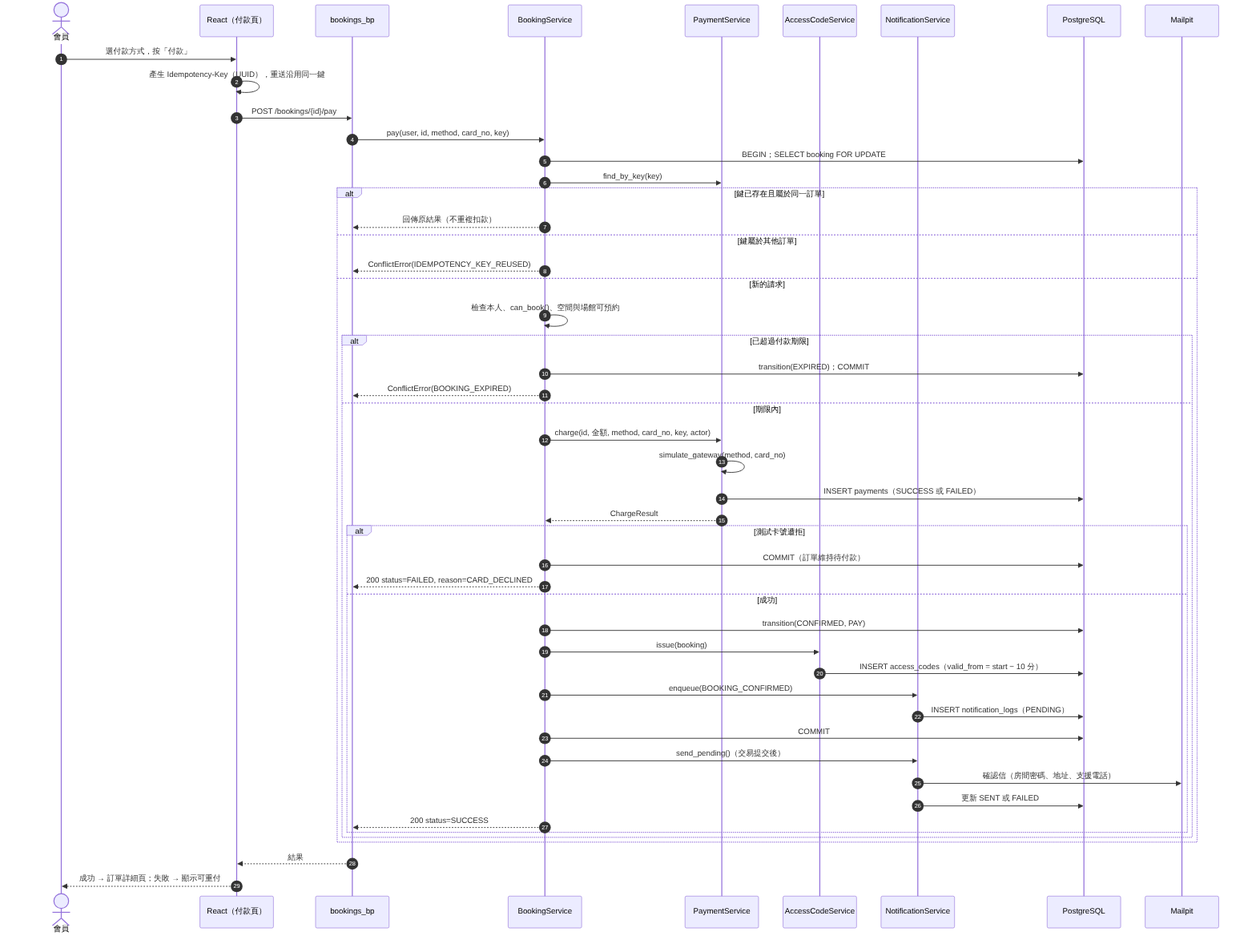
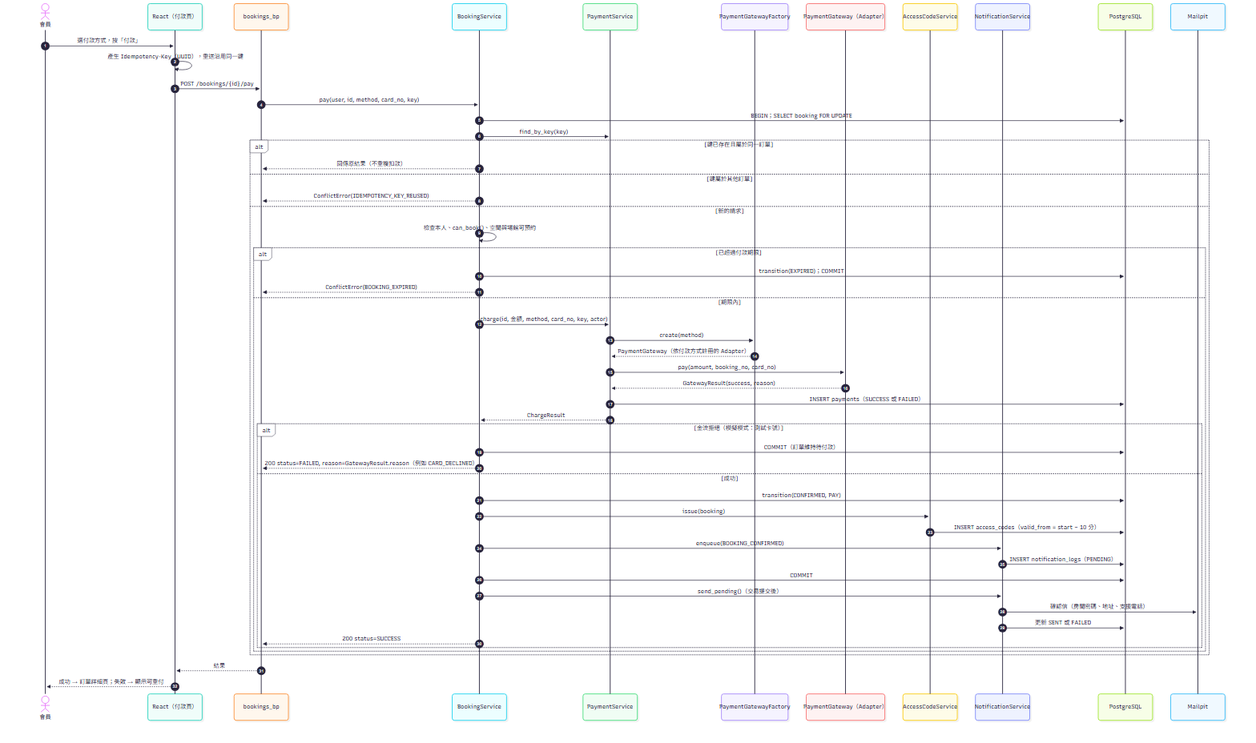
docs: 同步第四層重構（ARCHITECTURE、設計圖與 PNG、AI 使用紀錄）
- ARCHITECTURE.md：新增 Repository、Adapter 元件、第 3.1 節變更影響表與依賴規則；
  註明新增付款方式還需修改資料庫 CHECK 約束 ck_payments_method（規則 13，須全組確認）
- 設計圖：D3、D6、D7、D9、D12、L2、L3 的 Mermaid 與 PNG
- ai-usage-log.md：新增本次重構紀錄（記錄者待填）

diff --git a/BMAD/docs/設計圖_邏輯設計與細部設計.md b/BMAD/docs/設計圖_邏輯設計與細部設計.md
@@ -72,7 +72,7 @@ flowchart TB
     end
     subgraph S[服務層 Service：流程協調・交易邊界・權限，回傳 DTO]
         direction LR
-        S1[帳號・密碼・Google<br/>目錄搜尋<br/>可預約時段] --- S2[訂單（唯一入口）<br/>付款・房間密碼] --- S3[評論・收藏<br/>通知] --- S4[後台管理] --- S5[Policy 純函式<br/>PricingPolicy<br/>RefundPolicy]
+        S1[帳號・密碼・Google<br/>目錄搜尋<br/>可預約時段] --- S2[訂單（唯一入口）<br/>付款・房間密碼] --- S3[評論・收藏<br/>通知] --- S4[後台管理] --- S5[Policy・Repository・Adapter<br/>RefundPolicy 策略・booking_rules<br/>BookingRepository<br/>金流・身分 Adapter＋Factory]
     end
     subgraph MD[模型層 Model：SQLAlchemy ORM]
         direction LR
@@ -117,8 +117,8 @@ flowchart TB
     CAT[目錄搜尋模組<br/>搜尋・空間詳細・定位]
     BKG[訂單模組<br/>訂單流程唯一入口]
     AVL[可預約時段模組]
-    POL[計價與退款規則<br/>純函式]
-    PAY[付款模組<br/>只做金流與 payments]
+    POL[計價與退款規則<br/>純函式與 RefundPolicy 策略]
+    PAY[付款模組<br/>金流 Adapter 與 payments]
     ACC[房間密碼模組]
     NTF[通知模組<br/>信件・通知紀錄]
     SEC[安全工具<br/>雜湊・權杖]
@@ -158,7 +158,7 @@ flowchart TB
 | 可預約時段 | AvailabilityService | FR-14 | — |
 | 訂單 | BookingService | FR-20～22、30～33、45 | 可預約時段、計價與退款規則、付款、房間密碼、通知 |
 | 計價與退款規則 | PricingPolicy、RefundPolicy（純函式） | BR-07、12～14 | — |
-| 付款 | PaymentService | FR-22（金流部分） | — |
+| 付款 | PaymentService、PaymentGatewayFactory、PaymentGateway（Adapter） | FR-22（金流部分） | — |
 | 房間密碼 | AccessCodeService | FR-23、31 | — |
 | 評論 | ReviewService | FR-12（評論列表）、34、47 | 訂單 |
 | 收藏 | FavoriteService | FR-15 | 目錄搜尋 |
@@ -658,8 +658,29 @@ classDiagram
         +refund_partially(admin, booking_id, amount, key) PaymentDTO
         +expire_overdue() int
         +complete_finished() int
-        -_cancel(booking, ratio, actor, reason) None
+        -_cancel(booking, policy, actor, reason) None
         -_reschedule(booking, new_slot, actor, reason) int
+        -_amount_for(hourly_price, hours) int
+        -_reschedule_diff(booking, new_slot) int
+    }
+    class BookingRules {
+        <<pure>>
+        +can_cancel(status, expires_at, end_at, now) bool
+        +can_reschedule(status, start_at, count, now) bool
+        +reschedule_denial(status, start_at, count, now) RescheduleDenial
+        +can_review(status, end_at, now, has_review) bool
+        +review_window_open(end_at, now) bool
+    }
+    class BookingRepository {
+        <<repository>>
+        +get(booking_id) Booking
+        +get_locked(booking_id) Booking
+        +count_pending(user_id, now) int
+        +list_by_tab(user_id, tab, now, page, size) tuple
+        +list_active_in_spaces(space_ids, now) list
+        +has_slot_conflict(booking, start, end, now) bool
+        +lock_overdue_pending(now) list
+        +lock_finished(now) list
     }
     class PricingPolicy {
         <<pure>>
@@ -667,11 +688,38 @@ classDiagram
         +reschedule_diff(snapshot, old_hours, new_hours) int
     }
     class RefundPolicy {
-        <<pure>>
-        +member_ratio(start_at, now) Decimal
-        +admin_ratio() Decimal
-        +refund_amount(net_paid, ratio) int
+        <<strategy>>
+        +ratio(start_at, now) Decimal
     }
+    class MemberRefundPolicy
+    class AdminRefundPolicy
+    class NoRefundPolicy
+    RefundPolicy <|-- MemberRefundPolicy
+    RefundPolicy <|-- AdminRefundPolicy
+    RefundPolicy <|-- NoRefundPolicy
+    class PaymentGateway {
+        <<adapter interface>>
+        +pay(amount, ref, card_no) GatewayResult
+    }
+    class SimulatedCardGateway
+    class SimulatedLinePayGateway
+    class PaymentGatewayFactory {
+        <<factory>>
+        +register(method, maker) None
+        +create(method) PaymentGateway
+    }
+    PaymentGateway <|-- SimulatedCardGateway
+    PaymentGateway <|-- SimulatedLinePayGateway
+    PaymentGatewayFactory ..> PaymentGateway
+    class IdentityProvider {
+        <<adapter interface>>
+        +begin(callback_url) Response
+        +complete() GoogleIdentity
+    }
+    class GoogleAuthlibProvider
+    class MockGoogleProvider
+    IdentityProvider <|-- GoogleAuthlibProvider
+    IdentityProvider <|-- MockGoogleProvider
     class AvailabilityService {
         +slots_for(space, local_date) list~Slot~
         +validate_slot(space, start_at, end_at) None
@@ -680,7 +728,6 @@ classDiagram
         +charge(booking_id, amount, method, card_no, key, actor_id) ChargeResult
         +refund(booking_id, amount, key, actor_id) Payment
         +find_by_key(key) Payment
-        -simulate_gateway(method, card_no) bool
     }
     class AccessCodeService {
         +issue(booking) None
@@ -715,9 +762,12 @@ classDiagram
     PasswordService --> NotificationService
     CatalogService --> AvailabilityService
     BookingService --> AvailabilityService
+    BookingService --> BookingRepository
     BookingService ..> PricingPolicy
-    BookingService ..> RefundPolicy
+    BookingService ..> BookingRules
+    BookingService --> RefundPolicy
     BookingService --> PaymentService
+    PaymentService --> PaymentGatewayFactory
     BookingService --> AccessCodeService
     BookingService --> NotificationService
 ```
@@ -725,14 +775,16 @@ classDiagram
 **設計重點**
 
 - **BookingService 是訂單流程的唯一入口**（審查 C1、C2）：建立、付款、取消、改期、部分退款、逾時與完成都由它協調。只有它能寫入 bookings、booking_status_logs 與退款，狀態一律透過 `Booking.transition()` 改變、紀錄一律透過 `Booking.record()` 寫入（C4）。
-- **PaymentService 不依賴任何 Service**：只負責模擬金流與寫入 payments。`charge()`、`refund()` 不開交易，由 BookingService 的交易包住，確保「訂單變更＋金流紀錄」一起成功或一起失敗。
+- **PaymentService 不依賴任何 Service**：只負責呼叫金流 Adapter 與寫入 payments。金流經 `PaymentGatewayFactory`（註冊表）依付款方式取得 `PaymentGateway` Adapter；各家金流的參數、單位與失敗原因由 Adapter 轉成 `GatewayResult`，PaymentService 與 BookingService 不知道有哪幾種金流。`charge()`、`refund()` 不開交易，由 BookingService 的交易包住，確保「訂單變更＋金流紀錄」一起成功或一起失敗。
 - **不用布林旗標**（C3）：會員與管理員規則不同的操作拆成 `*_by_member`、`*_by_admin` 兩個公開方法，規則差異寫在各自的方法裡，共用私有 `_cancel()`、`_reschedule()`。
+- **訂單資料存取集中**：`BookingService` 不直接使用 `db.session` 或 `select`，查詢、鎖定（FOR UPDATE、SKIP LOCKED）、分頁與序號由 `BookingRepository` 負責；`commit`／`rollback` 只是轉交同一個 session，交易邊界仍由 `BookingService` 決定，確保「訂單變更＋金流紀錄」在同一個交易。
+- **訂單規則集中**：待付款上限、改期 24 小時與 1 次、評論 30 天等門檻與 `can_cancel`、`can_reschedule`、`can_review` 判斷集中在 `BookingRules`，`to_dto` 的畫面旗標與執行時的檢查共用同一份判斷；金額只經 `BookingService._amount_for()` 計算，日後調整計價只需改一處。
 - **計算規則抽成純函式**（C5）：`PricingPolicy`、`RefundPolicy` 不碰資料庫；`quote`、`cancel_quote`、`reschedule_quote` 與正式流程呼叫同一個函式，試算與實際結果不會不同。
 - **帳號模組依職責拆成三個**（C7）：`AuthService`（註冊、驗證信、登入）、`PasswordService`（雜湊、變更、重設、失敗鎖定、清理權杖）、`GoogleAuthService`（回呼、綁定）。
 - **評論的查詢與寫入都在 ReviewService**（C6）；`ReviewService` 透過 `BookingService.get_for_owner()` 確認訂單屬於本人且已完成，`FavoriteService.list()` 透過 `CatalogService` 組出空間摘要，兩者都不直接查其他模組的資料表。
 - **排程只呼叫 Service**（C8）：每個工作只呼叫一個 Service 方法，例如久未登入凍結呼叫 `AdminUserService.freeze_inactive()`，`jobs` 本身不寫商業邏輯。
 - **回傳 DTO**（C9）：Service 回傳 `schemas/` 中的 Pydantic 模型（圖中 `…DTO`），ORM 物件不離開 Service 層。
-- **注入 Clock**（C13）：所有 Service 以建構子注入 `Clock`，不直接讀系統時間；測試時替換成固定時間。Service 之間同樣以建構子注入（`create_app()` 中組裝），測試時可替換 `PaymentService.simulate_gateway` 與郵件寄送。圖中省略各 Service 對 Clock 的相依線。
+- **注入 Clock**（C13）：所有 Service 以建構子注入 `Clock`，不直接讀系統時間；測試時替換成固定時間。Service 之間同樣以建構子注入（`create_app()` 中組裝），測試時可替換 `PaymentGatewayFactory` 註冊的金流 Adapter、注入 `RefundPolicy` 與郵件寄送。圖中省略各 Service 對 Clock 的相依線。
 - `NotificationService.enqueue()` 在交易內寫入 PENDING 紀錄；`send_pending()` 在交易提交後才寄信。
 - 實線箭頭為 Service 之間的相依；虛線為排程的呼叫與對純函式的使用。
 
@@ -870,6 +922,8 @@ sequenceDiagram
     participant BP as bookings_bp
     participant BS as BookingService
     participant PS as PaymentService
+    participant GF as PaymentGatewayFactory
+    participant GW as PaymentGateway（Adapter）
     participant AC as AccessCodeService
     participant NS as NotificationService
     participant DB as PostgreSQL
@@ -892,12 +946,15 @@ sequenceDiagram
             BS-->>BP: ConflictError(BOOKING_EXPIRED)
         else 期限內
             BS->>PS: charge(id, 金額, method, card_no, key, actor)
-            PS->>PS: simulate_gateway(method, card_no)
+            PS->>GF: create(method)
+            GF-->>PS: PaymentGateway（依付款方式註冊的 Adapter）
+            PS->>GW: pay(amount, booking_no, card_no)
+            GW-->>PS: GatewayResult(success, reason)
             PS->>DB: INSERT payments（SUCCESS 或 FAILED）
             PS-->>BS: ChargeResult
-            alt 測試卡號遭拒
+            alt 金流拒絕（模擬模式：測試卡號）
                 BS->>DB: COMMIT（訂單維持待付款）
-                BS-->>BP: 200 status=FAILED, reason=CARD_DECLINED
+                BS-->>BP: 200 status=FAILED, reason=GatewayResult.reason（例如 CARD_DECLINED）
             else 成功
                 BS->>DB: transition(CONFIRMED, PAY)
                 BS->>AC: issue(booking)
@@ -938,24 +995,27 @@ sequenceDiagram
     U->>FE: 在訂單頁按「取消」
     FE->>BP: GET cancel-quote
     BP->>BS: cancel_quote(user, id)
-    BS->>RP: member_ratio(start_at, now)、refund_amount(net_paid, ratio)
+    BS->>BS: _member_policy(b)：待付款 → NoRefundPolicy，其餘 → MemberRefundPolicy
+    BS->>RP: ratio(start_at, now)
+    BS->>BS: refund_amount(net_paid, ratio)
     BS-->>FE: 預計退款金額與比例
     FE-->>U: 顯示「將退款 NT$300（50%）」
     U->>FE: 確認取消（管理員須填原因）
     FE->>BP: POST cancel
     alt 會員
         BP->>BS: cancel_by_member(user, id)
-        BS->>RP: member_ratio(start_at, now)（BR-12）
+        BS->>BS: _member_policy(b) 選出策略（BR-12）
     else 管理員
         BP->>BS: cancel_by_admin(admin, id, reason)
-        BS->>RP: admin_ratio() = 100%（BR-13）
+        BS->>BS: 使用注入的 AdminRefundPolicy（BR-13）
     end
-    BS->>BS: _cancel(booking, ratio, actor, reason)
+    BS->>BS: _cancel(booking, policy, actor, reason)
     BS->>DB: BEGIN；SELECT booking FOR UPDATE
     alt 已是 CANCELLED
         BS-->>BP: 回傳原結果（冪等）
     else 待付款或已確認
-        BS->>RP: refund_amount(net_paid, ratio)
+        BS->>RP: ratio(start_at, now)
+        BS->>BS: refund_amount(net_paid, ratio)
         opt 退款金額 > 0
             BS->>PS: refund(id, amount, key=refund-cancel-{id})
             PS->>DB: INSERT payments（REFUND，沿用原付款方式）
@@ -971,7 +1031,7 @@ sequenceDiagram
     FE-->>U: 顯示已取消與退款金額
 ```
 
-v2 的變化：會員與管理員改由兩個公開方法進入（審查 C3），只差在退款比例與原因是否必填；退款比例與金額由 `RefundPolicy` 計算（C5），試算與正式取消呼叫同一個函式。已完成或已失效的訂單由 `transition()` 拋出 `INVALID_STATE`。
+v2 的變化：會員與管理員改由兩個公開方法進入（審查 C3），只差在退款比例與原因是否必填；退款比例由 `RefundPolicy` 策略決定（`MemberRefundPolicy`、`AdminRefundPolicy`、`NoRefundPolicy`，以建構子注入 BookingService），退款金額由純函式 `refund_amount()` 計算；試算與正式取消呼叫同一個策略與函式。新增退款規則只需新增一個 `RefundPolicy` 子類別。已完成或已失效的訂單由 `transition()` 拋出 `INVALID_STATE`。
 
 ## D8 循序圖：改期（FR-33、FR-45）
 
@@ -1037,6 +1097,7 @@ sequenceDiagram
     actor U as 使用者
     participant FE as React
     participant BP as auth_bp
+    participant IP as IdentityProvider（Adapter）
     participant G as Google（開發期為 mock）
     participant GA as GoogleAuthService
     participant AS as AuthService
@@ -1045,11 +1106,14 @@ sequenceDiagram
 
     U->>FE: 按「使用 Google 登入」
     FE->>BP: GET /auth/google/start
-    BP-->>U: 302 導向 Google
+    BP->>IP: begin(callback_url)
+    IP-->>U: 302 導向 Google（mock 模式導向模擬頁面）
     U->>G: 登入並同意
     G-->>BP: GET /auth/google/callback（code）
-    BP->>G: 交換 id_token 並驗證簽章
-    BP->>GA: handle_callback(sub, email, email_verified)
+    BP->>IP: complete()
+    IP->>G: 交換 id_token 並驗證簽章（Authlib；mock 則讀網址參數）
+    IP-->>BP: GoogleIdentity(sub, email, name, email_verified)
+    BP->>GA: handle_callback(identity)
     GA->>DB: 以 (GOOGLE, sub) 查 external_accounts
     alt ① 已綁定
         GA->>DB: 更新 last_login_at
@@ -1084,7 +1148,7 @@ sequenceDiagram
     end
 ```
 
-v2 的變化（審查 C7）：Google 登入獨立為 GoogleAuthService；建立使用者交給 AuthService，密碼驗證與失敗鎖定交給 PasswordService，三者各自只負責一件事。
+v2 的變化（審查 C7）：Google 登入獨立為 GoogleAuthService；建立使用者交給 AuthService，密碼驗證與失敗鎖定交給 PasswordService，三者各自只負責一件事。v3 的變化：Controller 不再直接使用 Authlib 或判斷 `GOOGLE_MOCK`，改透過 `IdentityProvider` Adapter 取得標準化的 `GoogleIdentity`；真實（`GoogleAuthlibProvider`）與模擬（`MockGoogleProvider`）由 `build_identity_provider()` 依設定選擇，測試時可注入假的提供者。
 
 ## D10 狀態圖
 
@@ -1172,11 +1236,11 @@ flowchart TD
 ```mermaid
 flowchart TD
     S([輸入：訂單、呼叫的方法、Clock.now]) --> A{訂單狀態}
-    A -- PENDING_PAYMENT --> Z0[退款 0<br/>直接取消]
+    A -- PENDING_PAYMENT --> Z0[NoRefundPolicy：比例 0<br/>直接取消]
     A -- CANCELLED／EXPIRED／COMPLETED --> E[transition 拋出 INVALID_STATE<br/>已取消則回傳原結果]
     A -- CONFIRMED --> B{由哪個方法呼叫？}
-    B -- cancel_by_admin --> F[admin_ratio：100%（BR-13）]
-    B -- cancel_by_member／cancel_quote --> C[member_ratio：<br/>Δ = start_at − now]
+    B -- cancel_by_admin --> F[AdminRefundPolicy：100%（BR-13）]
+    B -- cancel_by_member／cancel_quote --> C[MemberRefundPolicy.TIERS：<br/>Δ = start_at − now]
     C --> D{Δ ≥ 24 小時？}
     D -- 是 --> F2[比例 100%]
     D -- 否 --> G{Δ ≥ 3 小時？}
@@ -1194,7 +1258,7 @@ flowchart TD
     Z0 --> N
 ```
 
-`member_ratio()`、`admin_ratio()`、`refund_amount()` 是 `RefundPolicy` 的純函式，不碰資料庫，可以直接對 24 小時、3 小時的邊界值寫單元測試（審查 C5）；狀態判斷由 `Booking.transition()` 負責，建立退款紀錄由 BookingService 負責。`net_paid` 已扣除先前的部分退款與改期退款，所以多次退款的總額不會超過實收（BR-17）。
+`RefundPolicy` 的三個實作與 `refund_amount()` 都不碰資料庫，可以直接對 24 小時、3 小時的邊界值寫單元測試（審查 C5）；狀態判斷由 `Booking.transition()` 負責，建立退款紀錄由 BookingService 負責。`net_paid` 已扣除先前的部分退款與改期退款，所以多次退款的總額不會超過實收（BR-17）。
 
 ## D13 前端元件圖：空間詳細與預約
 

diff --git a/BMAD/docs/ARCHITECTURE.md b/BMAD/docs/ARCHITECTURE.md
@@ -15,7 +15,7 @@
 | 輸入驗證 | Pydantic 2 | 以型別定義請求與回應格式，錯誤訊息一致 | 與 Flask 需一個小型整合函式 |
 | 登入狀態 | Flask-Login＋Flask 簽章 cookie session | 伺服器簽章、HttpOnly cookie，比 localStorage 的 JWT 更能防 XSS 竊取 | 前後端須同網域（nginx 代理解決） |
 | CSRF | Flask-WTF `CSRFProtect` | 標準防護；前端從 `/api/v1/auth/csrf` 取得 token 放在 `X-CSRFToken` 標頭 | 每個修改請求都要帶標頭 |
-| Google OAuth | Authlib | 成熟的 OAuth／OIDC 用戶端，驗證 id_token | 需 Google Cloud 憑證（開發期以 mock 代替） |
+| Google OAuth | Authlib | 成熟的 OAuth／OIDC 用戶端，驗證 id_token | 需 Google Cloud 憑證（開發期以 mock 代替）；Authlib 只出現在 `adapters/identity/`，由 `IdentityProvider` Adapter 隔離 |
 | 限流 | Flask-Limiter | 登入、註冊、忘記密碼防暴力嘗試 | |
 | 排程 | APScheduler（獨立 `scheduler` 容器） | 輕量；獨立容器避免多個 API worker 重複執行 | 單一排程程序，課程規模足夠 |
 | 寄信 | Python `smtplib`；開發用 Mailpit | 不綁特定服務；Mailpit 提供網頁介面檢視測試信 | |
@@ -77,18 +77,36 @@ flowchart LR
 | Controller | `backend/app/blueprints/`（Flask Blueprint） | 解析請求、Pydantic 驗證、呼叫 service、轉換回應；不寫商業規則 |
 | View | `frontend/`（React） | 畫面與互動、前端輸入驗證；不做權限與金額判斷 |
 | Service | `backend/app/services/` | 協調流程、交易邊界、權限與資料所有權檢查；回傳 DTO（`schemas/` 的 Pydantic 模型），ORM 物件不離開 Service 層 |
-| Policy | `backend/app/policies/` | 不碰資料庫的純函式業務規則：`PricingPolicy`（金額、改期價差，BR-07、14）、`RefundPolicy`（退款比例與金額，BR-12、13）。試算 API 與正式流程呼叫同一個函式 |
+| Policy | `backend/app/policies/` | 不碰資料庫的業務規則（純函式與策略）：`PricingPolicy`（金額、改期價差，BR-07、14）、`RefundPolicy`（退款比例 Strategy：`MemberRefundPolicy`、`AdminRefundPolicy`、`NoRefundPolicy`；`refund_amount()` 為純函式，BR-12、13）。試算 API 與正式流程呼叫同一個策略與函式。新增退款規則 = 新增一個 `RefundPolicy` 子類別。`booking_rules`：待付款上限、改期 24 小時與 1 次、評論 30 天等門檻，以及 `can_cancel`、`can_reschedule`（`reschedule_denial`）、`can_review` 判斷；畫面旗標與執行時檢查共用，門檻只在此定義一次 |
+| Repository | `backend/app/repositories/` | `BookingRepository`（窄版）：訂單的查詢、鎖定（FOR UPDATE、SKIP LOCKED）、分頁、序號與逾時／結束批次查詢；`commit`／`rollback` 只轉交同一個 session，交易邊界仍由 `BookingService` 決定。其他 Service（目錄、後台管理等純 CRUD、沒有變動維度）維持直接查詢，不另設 Repository |
+| Adapter | `backend/app/adapters/payment/` | 金流 Adapter：`PaymentGateway` 介面（`pay(amount, ref, card_no) → GatewayResult`）、`SimulatedCardGateway`、`SimulatedLinePayGateway`；`PaymentGatewayFactory` 以註冊表依付款方式取得 Adapter。新增付款方式 = 新增一個 Adapter 類別 + 一行 `register`，**另外**須在 `PaymentMethod` 列舉加值，並以 migration 修改資料庫 `payments.method` 的 CHECK 約束 `ck_payments_method`（目前只允許 `CREDIT_CARD`、`LINE_PAY`）與同步 `SCHEMA.md`（規則 13，須全組確認）。`backend/app/adapters/identity/`：`IdentityProvider` 介面（`begin`、`complete`）、`GoogleAuthlibProvider`（Authlib）、`MockGoogleProvider`（開發與測試）；`build_identity_provider()` 依 `GOOGLE_MOCK` 選擇，`create_app()` 可注入替換 |
 
 規則：
 
-1. Controller 不寫商業規則；跨表的寫入只能在 Service 中、以單一交易完成。課程規模不另設 repository 層，查詢寫在 Service 內，重複的查詢抽成 model 上的 classmethod。
+1. Controller 不寫商業規則；跨表的寫入只能在 Service 中、以單一交易完成。訂單相關的資料存取（查詢、鎖定、分頁）集中在 `BookingRepository`，`BookingService` 不直接使用 `db.session` 或 `select`（有架構測試檢查）；其他以 CRUD 為主的 Service 不另設 Repository，查詢寫在 Service 內，重複的查詢抽成 model 上的 classmethod。
 2. **訂單相關的寫入（bookings、booking_status_logs、退款）只能經過 `BookingService`**；其他 Service 與排程需要改訂單時，呼叫 `BookingService` 的公開方法。
 3. **訂單狀態只能透過 `Booking.transition()` 改變**，它依 D10 狀態圖檢查轉換是否合法並產生狀態紀錄；改期與部分退款不改狀態，以 `Booking.record()` 寫紀錄。
-4. `PaymentService` 只負責模擬金流與寫入 payments，不依賴其他 Service。
+4. `PaymentService` 只負責呼叫金流 Adapter（經 `PaymentGatewayFactory`）與寫入 payments，不依賴其他 Service。
 5. 公開方法不使用布林旗標切換行為；會員與管理員規則不同時，提供兩個語意明確的方法（例如 `cancel_by_member`、`cancel_by_admin`），共用私有核心。
 6. Service 不直接讀系統時間，一律透過注入的 `Clock`（`utils/clock.py`），測試時替換成固定時間。
 
 各模組與 Service 的完整相依見 `docs/設計圖_邏輯設計與細部設計.md` 的 L3 與 D3。
+
+### 3.1 第四層設計（Strategy＋Factory＋Adapter）與變更影響
+
+依課程講義的五個固定變更情境檢驗（✓ 只要新增、△ 要小改、✗ 牽一髮動全身）。「重構前」為 commit f844c45 的實測，「重構後」依目前程式與 `tests/unit` 中以假類別驗證的結果。
+
+| 情境 | 重構前 | 重構後 | 要新增或修改的檔案 |
+|---|---|---|---|
+| C1 加一種退款規則 | ✗ 改 `refund.py`、`booking.py` | ✓ | 新增一個 `RefundPolicy` 子類別；組裝處（`BookingService` 預設值）指定使用 |
+| C2 加一種付款方式 | ✗ 改 5 個以上檔案 | △ | 新增一個 `PaymentGateway` 類別 + 一行 `register`；另需 `PaymentMethod` 列舉、資料庫 CHECK 約束的 migration、`SCHEMA.md`、前端兩個頁面的選項 |
+| C3 換資料庫 | ✗ 訂單相關 SQL 散在 `BookingService` | △ | 訂單相關查詢集中於 `BookingRepository`；其他 Service 仍直接查詢，且專案規定 PostgreSQL 與 `btree_gist` |
+| C4 加一個入口（例如另一種登入來源） | ✓（Google 登入為 △） | ✓ | 新增一個 `IdentityProvider` 類別並由 factory 選擇；Controller 不必複製流程 |
+| C5 不連外部服務就能測試 | △ | △ | 規則、策略、Adapter 轉換邏輯可不連資料庫測試；流程測試仍需 PostgreSQL（刻意：併發測試必須用實際資料庫） |
+
+依賴規則由 `backend/tests/unit/test_architecture.py` 檢查：`policies/` 不得依賴 `sqlalchemy`、`flask`、`authlib`、`smtplib`、`requests`；`services/`、`blueprints/` 不得依賴 `authlib`、`smtplib`、`requests`；`BookingService` 不得直接使用 `db.session` 或 `select`；訂單門檻只能在 `policies/booking_rules.py` 定義。
+
+刻意**不**使用模式的地方：計價（目前只有單一計價規則，且資料表只存單一 `hourly_price_snapshot`，真的出現第二種規則時須先走 schema 變更；訂單金額已集中於 `BookingService._amount_for()`）、訂單狀態機（`Booking.transition()` 的狀態表比 State pattern 清楚）、寄信（`Mailer.send` 已可注入替換）、目錄與後台管理等純 CRUD。
 
 ## 4. 目錄結構
 
@@ -109,7 +127,10 @@ flowchart LR
 │   │   ├── services/            # auth、password、google_auth、catalog、availability、
 │   │   │                        # booking、payment、access_code、review、favorite、
 │   │   │                        # notification、admin_catalog、admin_booking、admin_user
-│   │   ├── policies/            # pricing、refund（純函式）
+│   │   ├── policies/            # pricing（純函式）、refund（RefundPolicy 策略＋純函式）、booking_rules（訂單門檻與 can_* 判斷）
+│   │   ├── repositories/        # BookingRepository（訂單資料存取）
+│   │   ├── adapters/payment/    # 金流 Adapter 與 PaymentGatewayFactory
+│   │   ├── adapters/identity/   # Google 身分提供者 Adapter（Authlib／mock）
 │   │   ├── blueprints/          # auth、catalog、me、bookings、admin、dev
 │   │   ├── jobs/                # 排程工作
 │   │   ├── security/            # 密碼雜湊、權杖、權限裝飾器
@@ -305,7 +326,7 @@ flowchart LR
 1. `SELECT ... FOR UPDATE` 鎖定訂單（先鎖再查冪等鍵，避免同一鍵的併發請求同時通過檢查）。
 2. 查詢 `Idempotency-Key`：已存在且屬於同一訂單 → 直接回傳該筆結果；屬於其他訂單 → 409 `IDEMPOTENCY_KEY_REUSED`。
 3. 檢查狀態為 PENDING_PAYMENT、帳號狀態（BR-05）、空間與場館仍可預約（BR-18）。已逾期則 `transition(EXPIRED)` 並**提交**，再回傳 409 `BOOKING_EXPIRED`。
-4. 呼叫 `PaymentService.charge()`：模擬金流（測試卡號 `4000 0000 0000 0002` 失敗，其餘成功）並寫入 payments，回傳成功或失敗；PaymentService 不碰訂單。
+4. 呼叫 `PaymentService.charge()`：經 `PaymentGatewayFactory` 取得該付款方式的 Adapter 請款（模擬模式：測試卡號 `4000 0000 0000 0002` 失敗，其餘成功）並寫入 payments，回傳成功或失敗；PaymentService 不碰訂單。
 5. 成功：`transition(CONFIRMED, PAY)`、`AccessCodeService.issue()`、`NotificationService.enqueue()`；失敗：訂單維持待付款，回傳 200 與 `CARD_DECLINED`。
 6. 提交後寄送確認信。若 INSERT 仍因冪等鍵唯一約束失敗（極少見的競爭），回滾後依第 2 步回傳既有結果。
 
@@ -314,13 +335,13 @@ flowchart LR
 ### 6.3 取消（FR-32、FR-45）：`BookingService.cancel_by_member()`、`cancel_by_admin()`
 
 1. 鎖定訂單；已是 CANCELLED 時直接回傳原結果（冪等）。
-2. 以 `RefundPolicy` 計算退款：會員依 BR-12，管理員依 BR-13（100%），以實收金額為基準。兩個公開方法只差在比例與「原因是否必填」，共用私有 `_cancel()`。
+2. 以 `RefundPolicy` 策略計算退款：會員依 `MemberRefundPolicy`（BR-12；待付款訂單用 `NoRefundPolicy`），管理員依 `AdminRefundPolicy`（BR-13，100%），以實收金額為基準。兩個公開方法只差在比例與「原因是否必填」，共用私有 `_cancel()`。
 3. `PaymentService.refund()` 新增 REFUND（金額 > 0 時；method 沿用原付款；冪等鍵 `refund-cancel-{booking_id}`）、寫入取消者、原因與時間、`transition(CANCELLED)`、`AccessCodeService.revoke()`、建立通知。
 
 ### 6.4 改期（FR-33、FR-45）：`BookingService.reschedule_by_member()`、`reschedule_by_admin()`
 
 1. 鎖定訂單。若訂單已是請求的新時段，直接回傳成功（重送請求的冪等處理）。
-2. `reschedule_by_member()` 檢查 BR-14（狀態、原訂單開始前 24 小時、次數）；`reschedule_by_admin()` 檢查 BR-19（時數相同）；兩者共用私有 `_reschedule()`，都檢查新時段的 BR-01、02、04。價差由 `PricingPolicy` 計算。
+2. `reschedule_by_member()` 依 `booking_rules.reschedule_denial()` 檢查 BR-14（狀態、原訂單開始前 24 小時、次數）；`reschedule_by_admin()` 檢查 BR-19（時數相同）；兩者共用私有 `_reschedule()`，都檢查新時段的 BR-01、02、04。價差由 `PricingPolicy` 計算。
 3. 更新 start_at、end_at、total_amount（以原時租快照重算）；會員改期另將 reschedule_count 加 1。若新時段與他人重疊，排除約束拋錯，整個交易回滾，原訂單不變。
 4. 價差 > 0：在同一交易中以請求的 method 執行模擬付款（冪等鍵取自標頭），卡片遭拒則整個交易回滾，回傳 422 `RESCHEDULE_NOT_ALLOWED`（details 註明 `CARD_DECLINED`），原訂單不變；價差 < 0：新增 REFUND（冪等鍵 `refund-resched-{booking_id}`）。
 5. `AccessCodeService.sync_validity()` 更新房間密碼有效時間；`Booking.record(RESCHEDULE)` 寫紀錄，reason 記錄「原時段 → 新時段」；建立通知。

diff --git a/BMAD/docs/ai-usage-log.md b/BMAD/docs/ai-usage-log.md
@@ -25,3 +25,4 @@
 | 2026-10-28 | 設計：耦合與內聚審查 | Claude（對話） | 依耦合與內聚等級審查 Service 設計，並把修正套用到全部規格與設計圖 | 先前由 AI 產出的 D3、D6 有 13 個問題，例如付款模組直接修改訂單狀態（內容耦合）、`by_admin` 旗標（控制耦合）、狀態轉換分散 5 處（低內聚）、管理員部分退款繞過訂單模組（共用耦合） | 組長要求以耦合與內聚重新審查；組內決定 C1～C13 全部在寫程式前套用：BookingService 成為訂單唯一入口、新增 Booking.transition()、PricingPolicy／RefundPolicy、拆分帳號 Service、DTO、Clock；同步更新 ARCHITECTURE、CLAUDE.md、SCHEMA、PRD 與 14 張圖 | 比對修正前後相依圖與指標（PaymentService 相依 2 → 0、改狀態位置 5 → 1）；文件交叉檢查腳本；重新渲染所有受影響的圖 | 設計審查_耦合與內聚.md、ARCHITECTURE.md、CLAUDE.md、設計圖 | 【待填】 |
 | 2026-10-28 | 設計：規格審查 | Claude（主對話撰寫）＋獨立 Claude agent（審查） | 由另一個未參與撰寫的 agent 交叉審查 PRD、SCHEMA、ARCHITECTURE、BMAD 指南 | 撰寫者自己檢查時未發現的 16 個問題，例如：付款冪等鍵在加鎖前查詢會有併發漏洞、改期重送會被次數限制擋下、管理員改期的價差由誰支付未定義、錯誤碼清單不完整、E5 漏列對 E2、E4 的相依 | 逐項修正文件並補上新規則（BR-18、19、20、21 等），新決定列入確認稿請全組確認 | 修正後重新執行文件交叉檢查腳本（FR／BR 編號、資料表欄位名稱）與 Mermaid 渲染 | PRD.md、SCHEMA.md、ARCHITECTURE.md | 【待填】 |
 | 2026-10-28 | 實作：初版後端、前端與測試 | Claude Code（Sonnet 5.5） | 依實作前確認稿與 D3 類別圖實作 Flask 後端（16 個 Model、15 個 Service、6 個 Blueprint、排程、種子資料）、React 前端（消費者端與後台）、pytest／Vitest 測試、Docker Compose；補上 Use Case 圖與需求追溯表 | 實作過程自行修正：欄位名稱 `date` 與型別 `date` 同名使 Pydantic 無法解析型別；`Mapped[int]` 使主鍵變成 INT 而非規格的 BIGINT；模型檔名 `types.py` 遮蔽標準函式庫。**待人工審查**：所有需資料庫的測試（Service、API、併發）在撰寫當下尚未對實際 PostgreSQL 執行；`docs/用例圖與程式追溯.md` 第 4、5 節列出與設計圖不同及自行判斷之處 | 以 `ruff`、`tsc --strict`、ESLint、`vite build` 與不需資料庫的 61 個後端單元測試、6 個前端測試驗證；建立資料表的 DDL 與 `docs/sql/schema.sql` 比對一致 | 純函式與模型測試已通過；資料庫測試須於有 PostgreSQL 16 的環境執行 `pytest` 後補記結果 | backend/、frontend/、docs/用例圖與程式追溯.md | 【待填】 |
+| 2026-11-05 | 設計：第四層重構（Strategy＋Factory＋Adapter） | Claude Code（Sonnet 5.5） | 依老師要求與講義，先做架構診斷（只讀不改），再重構：金流 Adapter＋註冊表 Factory、退款 RefundPolicy Strategy、Google IdentityProvider Adapter、訂單規則集中（booking_rules）、窄版 BookingRepository；補架構測試與文件、圖 | 診斷報告初版的錯誤：（1）講義 PDF 文字擷取失敗時，自行推測 C1～C5 的定義，與講義實際不同；（2）建議新增 ports/ 與 Protocol，那是講義第 5 層的做法；（3）重構後文件稱「新增付款方式只需新增 Adapter 與一行 register」，實際資料庫 payments.method 有 CHECK 約束（ck_payments_method），還需 migration 與 SCHEMA.md 更新；（4）程式註解把待付款上限寫成 BR-03（實際為 BR-06）。真實 Google OAuth 路徑無法自動測試 | 組員貼上可讀的講義全文後重新對照並修正診斷與計畫；執行測試時發現資料庫約束；對照 PRD 修正 BR 編號 | 重構前後各跑 pytest（基準 191 通過、1 個既有失敗 test_nfr02；重構後 unit＋api＋concurrency 皆通過，仍只有該 1 個既有失敗）；新增架構測試檢查依賴規則；Mermaid 重新渲染 D3、D6、D7、D9、D12、L2、L3。前端與 e2e 未執行；偶發失敗（併發、照片上傳各出現過一次）未查出原因 | backend/app/adapters/、repositories/、policies/、services/、docs/ARCHITECTURE.md、設計圖 | 【待填】 |
